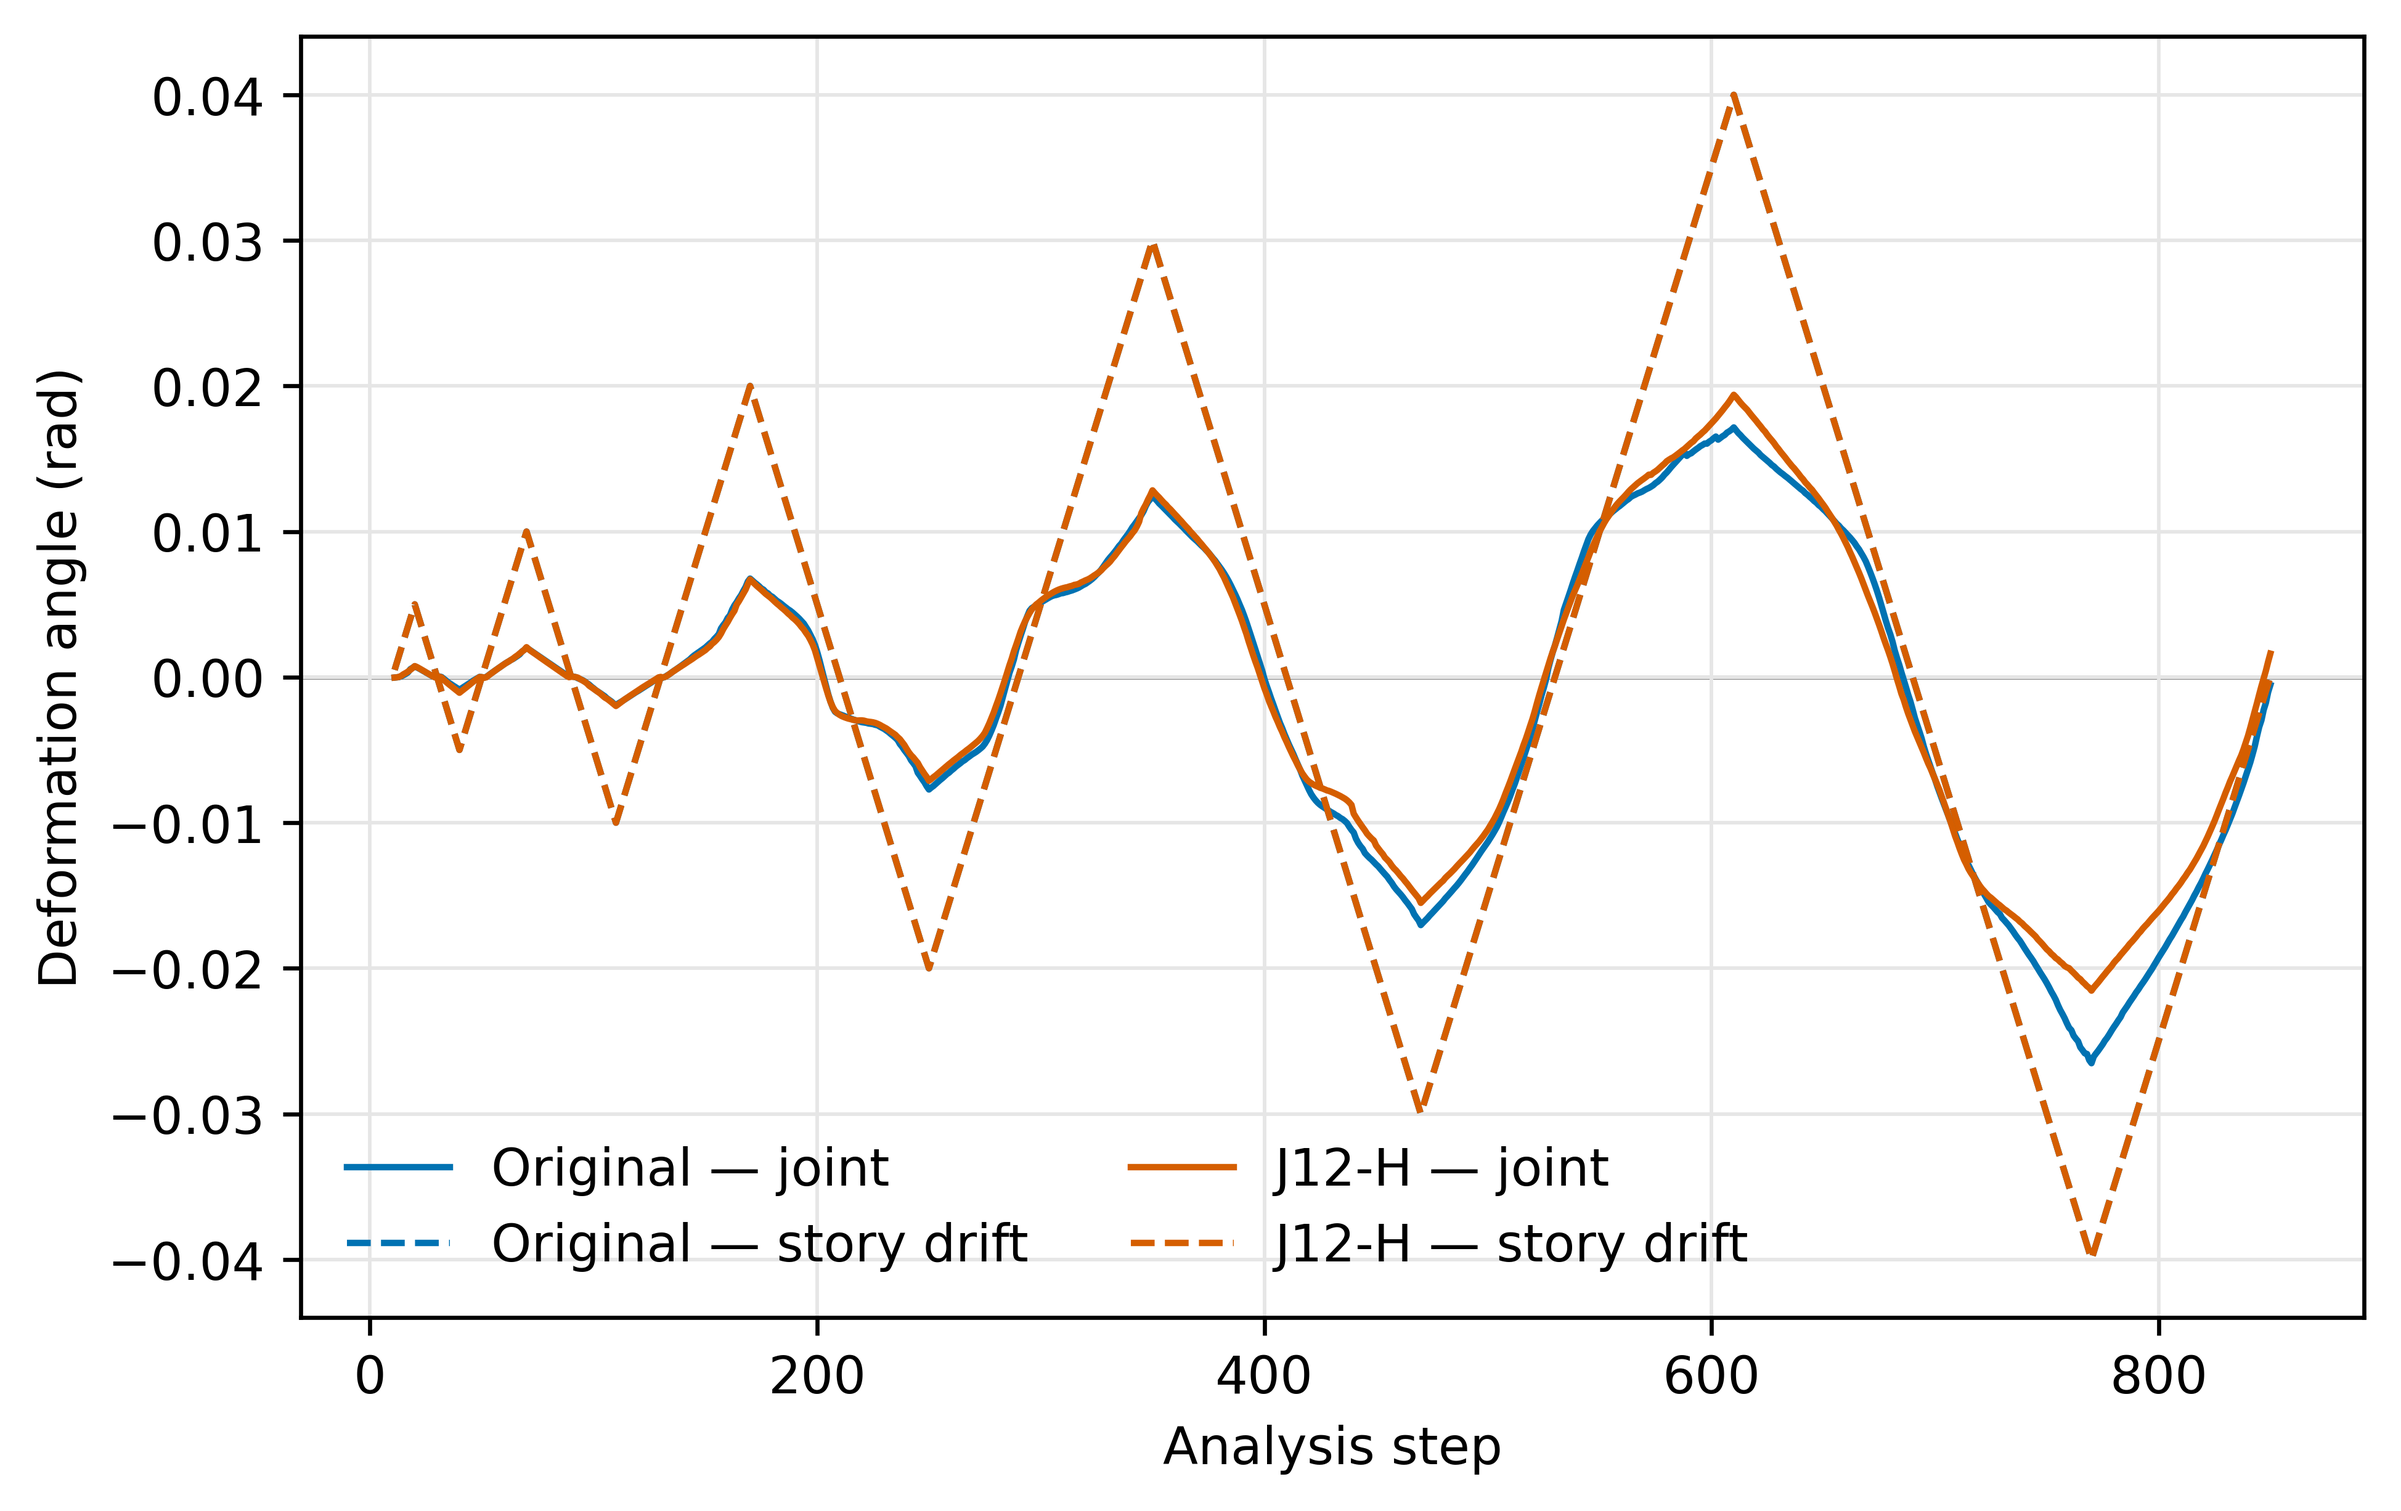
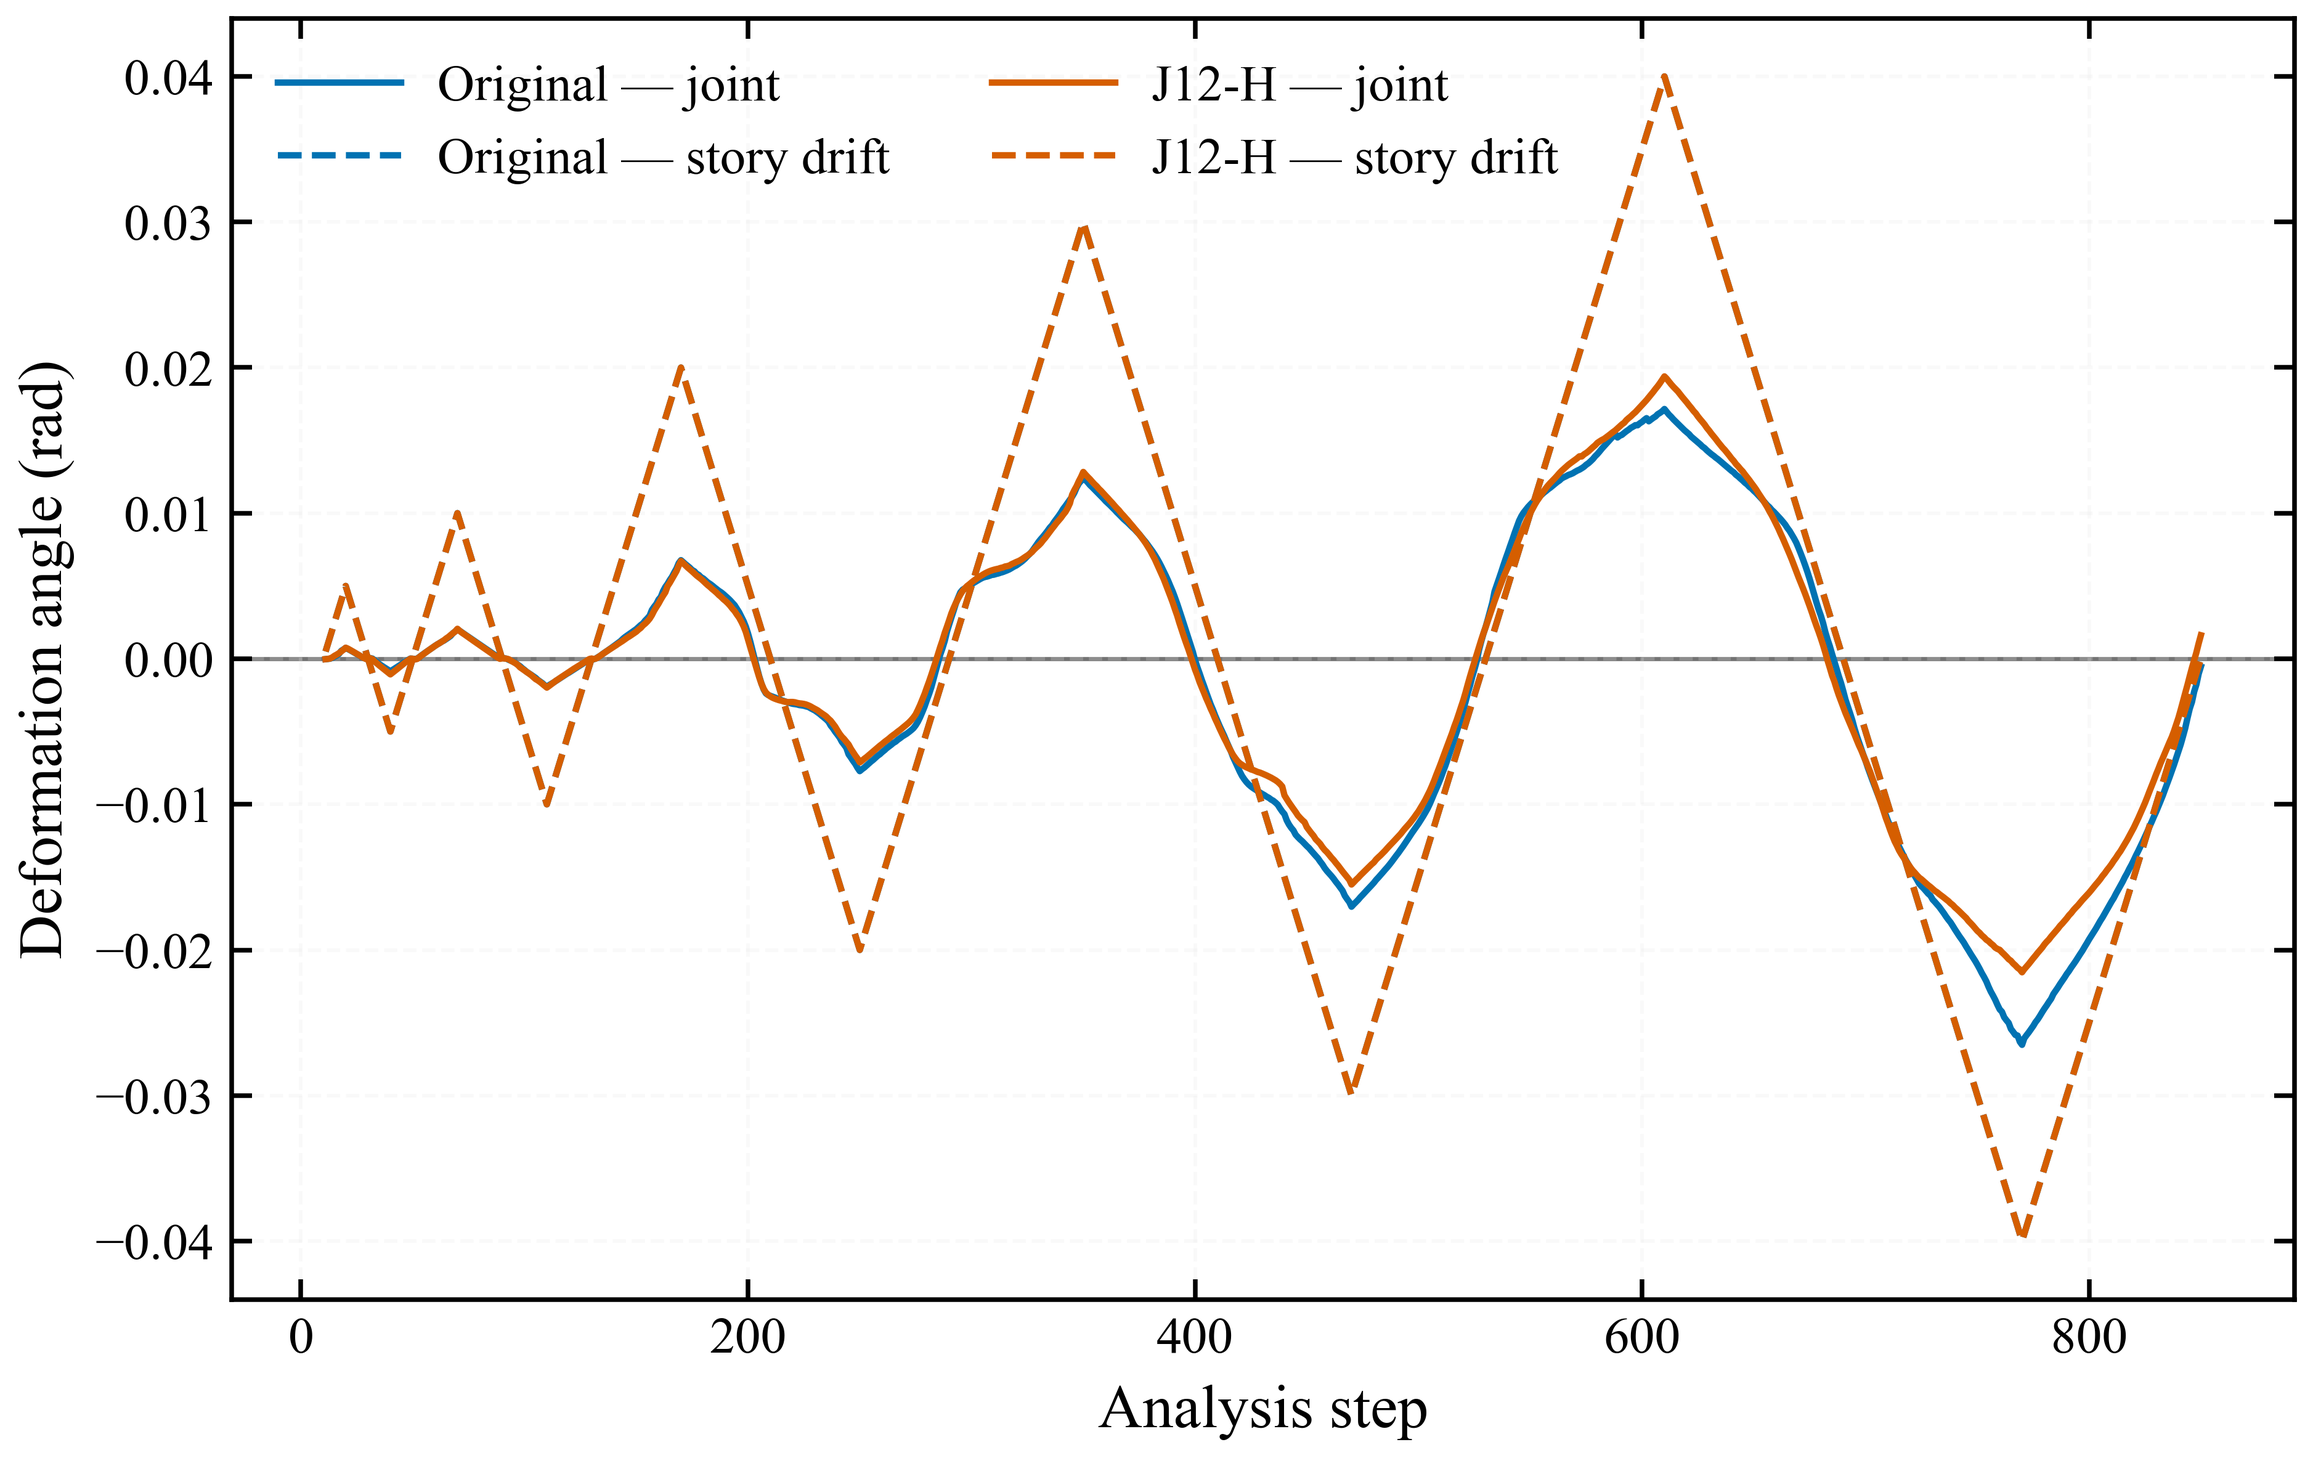
code optimization

diff --git a/10-story_2018/code/python/plot_rebar_strain.py b/10-story_2018/code/python/plot_rebar_strain.py
@@ -1,4 +1,4 @@
-"""Plot case-20 4F/6F rebar strain in the 2015 publication style."""
+"""Rebar-strain trace helpers shared by regenerate_current_figures.py."""
 
 from __future__ import annotations
 
@@ -8,9 +8,6 @@ import sys
 import numpy as np
 
 from config import (
-    CASE_NAME,
-    DATA_DIRECTORY,
-    FIGURE_DIRECTORY,
     PLOT_END,
     PLOT_START,
     REBAR_CHANNELS,
@@ -44,24 +41,3 @@ def _plot_floor(time: np.ndarray, beam: np.ndarray, column: np.ndarray, floor: i
         stem,
         time_window=(PLOT_START, PLOT_END),
     )
-
-
-def process() -> list[Path]:
-    source = DATA_DIRECTORY / "rebar_strain.npz"
-    if not source.is_file():
-        raise FileNotFoundError(f"Run process_rebar_strain.py first: {source}")
-    data = np.load(source)
-    time = data["time"]
-    generated: list[Path] = []
-    for offset, floor in enumerate((4, 6), start=7):
-        stem = FIGURE_DIRECTORY / f"chart_{offset:03d}_{CASE_NAME} {floor}F Rebar Strain"
-        _plot_floor(time, _trace(data, f"{floor}F_beam"), _trace(data, f"{floor}F_column"), floor, stem)
-        generated.append(stem.with_suffix(".png"))
-    return generated
-
-
-if __name__ == "__main__":
-    paths = process()
-    print("Generated rebar-strain figures:")
-    for path in paths:
-        print(path)

diff --git a/common/python/publication_style.py b/common/python/publication_style.py
@@ -7,11 +7,10 @@ remain in the individual plotting functions.
 
 from __future__ import annotations
 
-from contextlib import contextmanager
 from dataclasses import dataclass
 import os
 from pathlib import Path
-from typing import Iterator, Sequence
+from typing import Sequence
 import warnings
 
 import matplotlib
@@ -186,19 +185,6 @@ def apply_style(mode: str | None = None) -> PublicationStyle:
         "svg.fonttype": "none",
     })
     return style
-
-
-@contextmanager
-def style_context(mode: str | None = None) -> Iterator[PublicationStyle]:
-    """Temporarily apply a common style without leaking rcParams changes."""
-    global _ACTIVE_STYLE
-    previous = _ACTIVE_STYLE
-    with plt.rc_context():
-        style = apply_style(mode)
-        try:
-            yield style
-        finally:
-            _ACTIVE_STYLE = previous
 
 
 def figure_size(

diff --git a/diana/code/python/plot_joint_deformation_angle.py b/diana/code/python/plot_joint_deformation_angle.py
@@ -9,10 +9,16 @@ from __future__ import annotations
 
 import argparse
 import csv
+import sys
 from pathlib import Path
 
 import matplotlib.pyplot as plt
 import numpy as np
+
+WORKSPACE = Path(__file__).resolve().parents[3]
+sys.path.insert(0, str(WORKSPACE / "common" / "python"))
+
+from publication_style import apply_style  # noqa: E402
 
 
 CONDITIONS = {}
@@ -69,6 +75,7 @@ def main() -> None:
     parser.add_argument("--baseline", default="origin", help="Processed condition code to use as the baseline curve.")
     parser.add_argument("--baseline-label", default="Original", help="Legend label for the baseline curve.")
     args = parser.parse_args()
+    apply_style("paper")
     global CONDITIONS
     CONDITIONS = {
         args.baseline: {"label": args.baseline_label, "color": "#0072B2"},

diff --git a/10-story_2015/opensees/postprocessing/figures.py b/10-story_2015/opensees/postprocessing/figures.py
@@ -2,6 +2,7 @@
 from __future__ import annotations
 import csv
 import json
+import sys
 from pathlib import Path
 
 import matplotlib
@@ -9,9 +10,14 @@ matplotlib.use('Agg')
 import matplotlib.pyplot as plt
 import numpy as np
 
+COMMON_PYTHON = Path(__file__).resolve().parents[3] / 'common' / 'python'
+sys.path.insert(0, str(COMMON_PYTHON))
+
+from publication_style import apply_style  # noqa: E402
+
 
 def make_figures(model, out):
-    plt.rcParams.update({'font.size': 10, 'axes.spines.top': False, 'axes.spines.right': False})
+    apply_style('paper')
     nodes = {n['node']: np.array([n['x_mm'], n['y_mm'], n['z_mm']]) / 1000 for n in model['nodes']}
     fig = plt.figure(figsize=(8, 9), layout='constrained')
     ax = fig.add_subplot(111, projection='3d')

diff --git a/10-story_2015/opensees/diagnostics/plot_locator.py b/10-story_2015/opensees/diagnostics/plot_locator.py
@@ -2,6 +2,7 @@
 import argparse
 import csv
 import json
+import sys
 from pathlib import Path
 import numpy as np
 import matplotlib
@@ -10,8 +11,14 @@ import matplotlib.pyplot as plt
 from matplotlib.collections import PolyCollection
 from matplotlib.colors import LogNorm
 
+COMMON_PYTHON = Path(__file__).resolve().parents[3] / 'common' / 'python'
+sys.path.insert(0, str(COMMON_PYTHON))
+
+from publication_style import apply_style  # noqa: E402
+
 
 def main():
+    apply_style('paper')
     p=argparse.ArgumentParser(description=__doc__);p.add_argument('run',type=Path)
     out=p.parse_args().run.resolve()
     summary=json.loads((out/'localization_summary.json').read_text(encoding='utf-8'))

diff --git a/10-story_2015/opensees/diagnostics/compare_coupon.py b/10-story_2015/opensees/diagnostics/compare_coupon.py
@@ -1,14 +1,21 @@
 """Compare the zero/negligible-beta diagnostic and export evidence."""
 import argparse
 import json
+import sys
 from pathlib import Path
 import numpy as np
 import matplotlib
 matplotlib.use('Agg')
 import matplotlib.pyplot as plt
 
+COMMON_PYTHON = Path(__file__).resolve().parents[3] / 'common' / 'python'
+sys.path.insert(0, str(COMMON_PYTHON))
+
+from publication_style import apply_style  # noqa: E402
+
 
 def main():
+    apply_style('paper')
     p=argparse.ArgumentParser();p.add_argument('run',type=Path);out=p.parse_args().run.resolve()
     fig,axes=plt.subplots(2,2,figsize=(11,7),layout='constrained')
     summary=[]

diff --git a/10-story_2018/ISSUES.md b/10-story_2018/ISSUES.md
@@ -10,9 +10,9 @@
 
 ## ISSUE-002：旧 Python 工作流仅配置 Case 20
 
-- 状态：已解决（2026-07-30）
+- 状态：已解决（2026-07-30；旧文件已于 2026-09-15 删除）
 - 处理：新增 `code/python/run_pipeline.py`，支持按工况、全部加载工况和全部现存工况运行，并在运行前检查 JB 文件。
-- 说明：旧 `run_case20.py` 暂时保留用于追溯，不再是正式入口。
+- 说明：旧 `run_case20.py` 及其专用链（`process_acceleration.py`、`process_joint_rotation.py`、`process_rebar_strain.py`、`process_story_drift.py`、`process_story_shear.py`、`plot_results.py`、`export_tabular.py`、`io_utils.py`、该目录下的 `legacy_signal.py`）曾暂时保留用于追溯，不再是正式入口；2026-09-15 全仓库排查确认无任何其他脚本引用后已删除，`git log` 中仍可恢复。`plot_rebar_strain.py` 和 `config.py` 予以保留，因为 `scripts/figure_export/regenerate_current_figures.py` 仍从 `plot_rebar_strain.py` 导入曲线绘制辅助函数；其依赖已删除文件的 `process()`/CLI 入口一并移除。
 
 ## ISSUE-004：Case 20 历史累积位移使用旧残余状态
 

diff --git a/10-story_2018/code/python/README.md b/10-story_2018/code/python/README.md
@@ -43,5 +43,11 @@ from the current MATLAB algorithm from the first loading case. The Python
 workflow therefore rebuilds the residual chain from raw data and records the
 historical state mismatch in `validation_against_matlab.json`.
 
-The older `run_case20.py` modules remain temporarily for provenance of earlier
-Python results, but they are not the formal workflow.
+The older `run_case20.py` modules (kept temporarily for provenance, never the
+formal workflow) were removed on 2026-09-15 after confirming no other script
+imported them; the pre-removal source is still in `git log` if ever needed.
+`plot_rebar_strain.py` and `config.py` were kept — `scripts/figure_export/
+regenerate_current_figures.py` still imports the trace helpers from
+`plot_rebar_strain.py`, whose now-unreachable `process()`/CLI entry (it
+depended on the deleted `process_rebar_strain.py`) was trimmed at the same
+time.
